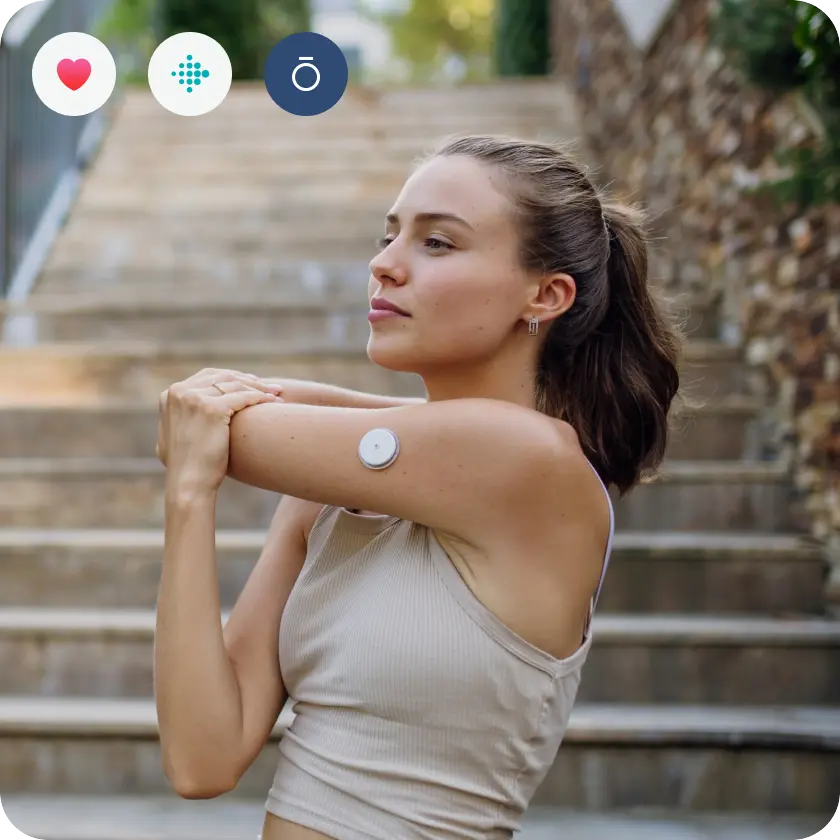
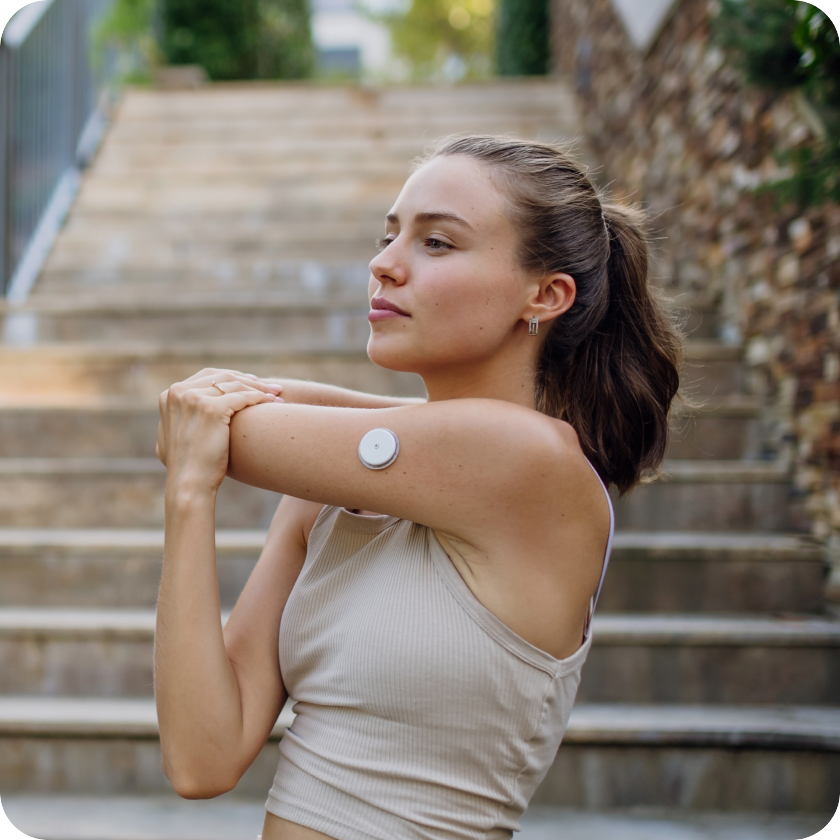
UI fixes

Changed region(s): [[0.031, 0.031, 0.2786, 0.1548], [0.3095, 0.031, 0.4333, 0.1548]]

diff --git a/index.html b/index.html
@@ -1,112 +1,1 @@
-<!doctype html>
-<html lang="en">
-<head>
-    <meta charset="UTF-8"/>
-    <title>Intend</title>
-    <meta name="description" content=""/>
-    <meta name="keywords" content=""/>
-    <meta name="viewport" content="width=device-width,initial-scale=1"/>
-    <link rel="preconnect" href="https://fonts.googleapis.com"/>
-    <link rel="preconnect" href="https://fonts.gstatic.com" crossorigin/>
-    <link href="https://fonts.googleapis.com/css2?family=Poppins:ital,wght@0,100;0,200;0,300;0,400;0,500;0,600;0,700;0,800;0,900;1,100;1,200;1,300;1,400;1,500;1,600;1,700;1,800;1,900&display=swap"
-          rel="stylesheet"/>
-    <link rel="icon" href="favicon.ico">
-    <script defer="defer" src="js/app.js"></script>
-    <link href="css/app.css" rel="stylesheet">
-</head>
-<body>
-<section class="hero">
-    <header class="hero-header">
-        <div class="hero-header__logo">
-            <svg xmlns="http://www.w3.org/2000/svg" viewBox="0 0 113 32" fill="none">
-                <path d="M101.611 31.996c-2.951 0-5.269-.935-6.955-2.806-1.686-1.897-2.529-4.386-2.529-7.469s.843-5.559 2.529-7.429c1.686-1.897 3.978-2.845 6.876-2.845 2.555 0 4.478.843 5.769 2.529V3.703h4.979V31.68h-4.979v-2.292c-.5.79-1.264 1.423-2.292 1.897s-2.16.711-3.398.711zm.711-4.307c1.607 0 2.885-.54 3.833-1.62.975-1.106 1.462-2.555 1.462-4.347s-.487-3.227-1.462-4.307c-.948-1.106-2.226-1.66-3.833-1.66-1.58 0-2.858.553-3.833 1.66-.948 1.08-1.423 2.516-1.423 4.307s.474 3.24 1.423 4.347c.975 1.08 2.253 1.62 3.833 1.62zm-32.516 3.993V11.766h4.979v3.003a7.41 7.41 0 0 1 2.608-2.411c1.106-.606 2.345-.909 3.715-.909 2.186 0 3.938.659 5.256 1.976 1.344 1.317 2.015 3.056 2.015 5.216v13.04H83.4V19.827c0-1.186-.343-2.134-1.027-2.845-.685-.738-1.607-1.106-2.766-1.106-1.528 0-2.713.619-3.556 1.857s-1.265 2.977-1.265 5.216v8.733h-4.979zm-3.767-10.63l-.079 1.976H51.181c.211 1.502.777 2.674 1.699 3.517s2.094 1.264 3.517 1.264c1.159 0 2.134-.263 2.924-.79s1.317-1.278 1.581-2.252l4.663 1.265c-.553 1.87-1.647 3.332-3.28 4.386s-3.622 1.581-5.967 1.581c-3.135 0-5.611-1.014-7.429-3.043-1.791-2.055-2.687-4.465-2.687-7.232 0-2.793.856-5.203 2.569-7.232 1.739-2.028 4.162-3.043 7.271-3.043 3.161 0 5.611.975 7.35 2.924 1.765 1.923 2.648 4.149 2.648 6.678zm-14.74-1.66h9.405c-.132-1.238-.593-2.239-1.383-3.003s-1.884-1.146-3.28-1.146c-1.238 0-2.279.356-3.122 1.067-.817.711-1.357 1.739-1.62 3.082zM44.23 31.487c-.948.343-2.015.514-3.201.514-2.108 0-3.807-.58-5.098-1.739s-1.936-2.858-1.936-5.098v-9.207-4.189V5.92h4.979v5.848h5.019v4.189h-5.019v8.733c0 .922.224 1.647.672 2.174.474.501 1.106.751 1.897.751.922 0 1.699-.158 2.331-.474l.356 4.347zm-33.835.068V11.639h4.979v3.003c.659-1.001 1.528-1.804 2.608-2.41 1.106-.606 2.345-.909 3.715-.909 2.187 0 3.939.659 5.256 1.976 1.344 1.317 2.015 3.056 2.015 5.216v13.04h-4.979V19.7c0-1.185-.343-2.134-1.027-2.845-.685-.738-1.607-1.107-2.766-1.107-1.528 0-2.713.619-3.556 1.857s-1.264 2.977-1.264 5.216v8.733h-4.979zm-5.06-23.83c-.606.58-1.357.869-2.252.869S1.45 8.304.87 7.725C.29 7.12 0 6.382 0 5.513S.869 3.34.869 3.34L3.082 0l2.252 3.379s.909 1.291.909 2.134a3.01 3.01 0 0 1-.909 2.213zM.593 31.554V11.638h4.979v19.916H.593z"/>
-                <path d="M3.082 8.595c.896 0 1.647-.29 2.252-.869a3.01 3.01 0 0 0 .909-2.213c0-.843-.909-2.134-.909-2.134L3.082 0 .869 3.339S0 4.643 0 5.513.29 7.12.869 7.725c.58.58 1.317.869 2.213.869z"/>
-            </svg>
-        </div>
-        <div class="hero-header__buttons"><a class="button button--bordered" href="mailto: info@intend.com">Contact
-            Us</a> <a class="button mobile-hidden" href="mailto: info@intend.com">Join Testing</a></div>
-    </header>
-    <div class="hero-content">
-        <div class="hero-content__wrapper"><h1 class="hero-content__title">Optimize your metabolic health with
-            Intend</h1>
-            <p class="hero-content__text">Balance your glucose, lose weight, boost your energy, and feel your best—all
-                without sacrificing muscle.</p><a class="button desktop-hidden" href="mailto: info@intend.com">Join
-                Testing</a></div>
-    </div>
-</section>
-<main class="page-content"><h1 class="page-content__title">What you’ll experience</h1>
-    <div class="features-list">
-        <div class="features-list__item">
-            <div class="features-list__item-content"><h3 class="features-list__item-title">Real-time data at your
-                fingertips</h3>
-                <p class="features-list__item-text">Track your glucose patterns effortlessly with continuous glucose
-                    monitoring (CGM) and other data from Apple Health. Intend connects seamlessly with wearables, giving
-                    you a complete, real-time view of your metabolic health directly on your phone.</p><img
-                        src="images/content/apple_health.png" alt="Apple Health" width="172"
-                        class="features-list__item-img-health"/></div>
-            <div class="features-list__item-img"><img src="images/content/girl.webp" alt="Girl with glucose monitor"/>
-            </div>
-        </div>
-        <div class="features-list__item features-list__item--reverse">
-            <div class="features-list__item-content"><h3 class="features-list__item-title">Track progress with Intend
-                app</h3>
-                <p class="features-list__item-text">Monitor your glucose trends, lifestyle habits, and progress all in
-                    one place. Get personalized insights into how your choices affect your health, with the ability for
-                    your nutritionist to access and analyze your data continuously.</p></div>
-            <div class="features-list__item-img"><img src="images/content/app.webp" alt="Application screenshot"/></div>
-        </div>
-        <div class="features-list__item">
-            <div class="features-list__item-content"><h3 class="features-list__item-title">Expert support, anytime you
-                need it</h3>
-                <p class="features-list__item-text">Connect with top-tier nutritionists trained to interpret your data
-                    and guide you toward your goals. With easy scheduling and in-app calls, you'll receive ongoing
-                    motivation and advice every step of the way.</p></div>
-            <div class="features-list__item-img"><img src="images/content/call.webp" alt="Call with doctor"/></div>
-        </div>
-        <div class="features-list__item features-list__item--reverse">
-            <div class="features-list__item-content">
-                <div class="badge">Soon! ⚡</div>
-                <h3 class="features-list__item-title">Our nutritionist rating system</h3>
-                <p class="features-list__item-text">Our experts are rated based on their ability to help you lower
-                    average glucose levels and make sustainable lifestyle changes. You’ll get access to the best of the
-                    best.</p></div>
-            <div class="features-list__item-img"><img src="images/content/rating.webp" alt="Rating example"
-                                                      class="mobile-hidden"/> <img
-                    src="images/content/rating-mobile.webp" alt="Rating example" class="desktop-hidden"/></div>
-        </div>
-    </div>
-    <div class="banner">
-        <div class="banner__wrapper">
-            <div class="banner__content">
-                <div class="badge badge--light">Soon! ⚡</div>
-                <h3 class="banner__content-title">Gamified health management</h3>
-                <p class="banner__content-text">Transform your health journey into a fun, interactive game. Take on
-                    challenges, test small but impactful habits, and discover what works for you.</p></div>
-            <img src="images/content/management-mobile.webp" alt="Management example"
-                 class="banner__img desktop-hidden"/></div>
-    </div>
-    <div class="get-results">
-        <div class="get-results__header"><h2 class="get-results__title">Get results that matter</h2>
-            <p class="get-results__text">Start optimizing your metabolic health with Intend and be part of an exclusive
-                community shaping the future of wellness.</p></div>
-        <div class="improvements-list">
-            <div class="improvements-list__item">🧘🏻 Focus easily</div>
-            <div class="improvements-list__item">💪🏻 Weight Loss</div>
-            <div class="improvements-list__item">💤 Sleep better</div>
-            <div class="improvements-list__item">🥗 Eat smarter</div>
-            <div class="improvements-list__item">⚡ Boost energy</div>
-            <div class="improvements-list__item">🧠 Improve mood</div>
-        </div>
-        <a class="button" href="mailto: info@intend.com">Join Testing</a></div>
-</main>
-<footer class="page-footer">
-    <div class="page-footer__logo">
-        <svg xmlns="http://www.w3.org/2000/svg" viewBox="0 0 113 32" fill="none">
-            <path d="M101.611 31.996c-2.951 0-5.269-.935-6.955-2.806-1.686-1.897-2.529-4.386-2.529-7.469s.843-5.559 2.529-7.429c1.686-1.897 3.978-2.845 6.876-2.845 2.555 0 4.478.843 5.769 2.529V3.703h4.979V31.68h-4.979v-2.292c-.5.79-1.264 1.423-2.292 1.897s-2.16.711-3.398.711zm.711-4.307c1.607 0 2.885-.54 3.833-1.62.975-1.106 1.462-2.555 1.462-4.347s-.487-3.227-1.462-4.307c-.948-1.106-2.226-1.66-3.833-1.66-1.58 0-2.858.553-3.833 1.66-.948 1.08-1.423 2.516-1.423 4.307s.474 3.24 1.423 4.347c.975 1.08 2.253 1.62 3.833 1.62zm-32.516 3.993V11.766h4.979v3.003a7.41 7.41 0 0 1 2.608-2.411c1.106-.606 2.345-.909 3.715-.909 2.186 0 3.938.659 5.256 1.976 1.344 1.317 2.015 3.056 2.015 5.216v13.04H83.4V19.827c0-1.186-.343-2.134-1.027-2.845-.685-.738-1.607-1.106-2.766-1.106-1.528 0-2.713.619-3.556 1.857s-1.265 2.977-1.265 5.216v8.733h-4.979zm-3.767-10.63l-.079 1.976H51.181c.211 1.502.777 2.674 1.699 3.517s2.094 1.264 3.517 1.264c1.159 0 2.134-.263 2.924-.79s1.317-1.278 1.581-2.252l4.663 1.265c-.553 1.87-1.647 3.332-3.28 4.386s-3.622 1.581-5.967 1.581c-3.135 0-5.611-1.014-7.429-3.043-1.791-2.055-2.687-4.465-2.687-7.232 0-2.793.856-5.203 2.569-7.232 1.739-2.028 4.162-3.043 7.271-3.043 3.161 0 5.611.975 7.35 2.924 1.765 1.923 2.648 4.149 2.648 6.678zm-14.74-1.66h9.405c-.132-1.238-.593-2.239-1.383-3.003s-1.884-1.146-3.28-1.146c-1.238 0-2.279.356-3.122 1.067-.817.711-1.357 1.739-1.62 3.082zM44.23 31.487c-.948.343-2.015.514-3.201.514-2.108 0-3.807-.58-5.098-1.739s-1.936-2.858-1.936-5.098v-9.207-4.189V5.92h4.979v5.848h5.019v4.189h-5.019v8.733c0 .922.224 1.647.672 2.174.474.501 1.106.751 1.897.751.922 0 1.699-.158 2.331-.474l.356 4.347zm-33.835.068V11.639h4.979v3.003c.659-1.001 1.528-1.804 2.608-2.41 1.106-.606 2.345-.909 3.715-.909 2.187 0 3.939.659 5.256 1.976 1.344 1.317 2.015 3.056 2.015 5.216v13.04h-4.979V19.7c0-1.185-.343-2.134-1.027-2.845-.685-.738-1.607-1.107-2.766-1.107-1.528 0-2.713.619-3.556 1.857s-1.264 2.977-1.264 5.216v8.733h-4.979zm-5.06-23.83c-.606.58-1.357.869-2.252.869S1.45 8.304.87 7.725C.29 7.12 0 6.382 0 5.513S.869 3.34.869 3.34L3.082 0l2.252 3.379s.909 1.291.909 2.134a3.01 3.01 0 0 1-.909 2.213zM.593 31.554V11.638h4.979v19.916H.593z"/>
-            <path d="M3.082 8.595c.896 0 1.647-.29 2.252-.869a3.01 3.01 0 0 0 .909-2.213c0-.843-.909-2.134-.909-2.134L3.082 0 .869 3.339S0 4.643 0 5.513.29 7.12.869 7.725c.58.58 1.317.869 2.213.869z"/>
-        </svg>
-    </div>
-    <p class="page-footer__copyrights"><strong>Healthy metabolism starts with steady glucose.</strong><br/>2024 Cubi
-        Tech SIA. All rights reserved.</p></footer>
-</body>
-</html>
+<!doctype html><html lang="en"><head><meta charset="UTF-8"/><title>Intend</title><meta name="description" content=""/><meta name="keywords" content=""/><meta name="viewport" content="width=device-width,initial-scale=1"/><link rel="preconnect" href="https://fonts.googleapis.com"/><link rel="preconnect" href="https://fonts.gstatic.com" crossorigin/><link href="https://fonts.googleapis.com/css2?family=Poppins:ital,wght@0,100;0,200;0,300;0,400;0,500;0,600;0,700;0,800;0,900;1,100;1,200;1,300;1,400;1,500;1,600;1,700;1,800;1,900&display=swap" rel="stylesheet"/><link rel="icon" href="favicon.ico"><script defer="defer" src="js/app.js"></script><link href="css/app.css" rel="stylesheet"></head><body><section class="hero"><header class="hero-header"><div class="hero-header__logo"><svg xmlns="http://www.w3.org/2000/svg" viewBox="0 0 113 32" fill="none"><path d="M101.611 31.996c-2.951 0-5.269-.935-6.955-2.806-1.686-1.897-2.529-4.386-2.529-7.469s.843-5.559 2.529-7.429c1.686-1.897 3.978-2.845 6.876-2.845 2.555 0 4.478.843 5.769 2.529V3.703h4.979V31.68h-4.979v-2.292c-.5.79-1.264 1.423-2.292 1.897s-2.16.711-3.398.711zm.711-4.307c1.607 0 2.885-.54 3.833-1.62.975-1.106 1.462-2.555 1.462-4.347s-.487-3.227-1.462-4.307c-.948-1.106-2.226-1.66-3.833-1.66-1.58 0-2.858.553-3.833 1.66-.948 1.08-1.423 2.516-1.423 4.307s.474 3.24 1.423 4.347c.975 1.08 2.253 1.62 3.833 1.62zm-32.516 3.993V11.766h4.979v3.003a7.41 7.41 0 0 1 2.608-2.411c1.106-.606 2.345-.909 3.715-.909 2.186 0 3.938.659 5.256 1.976 1.344 1.317 2.015 3.056 2.015 5.216v13.04H83.4V19.827c0-1.186-.343-2.134-1.027-2.845-.685-.738-1.607-1.106-2.766-1.106-1.528 0-2.713.619-3.556 1.857s-1.265 2.977-1.265 5.216v8.733h-4.979zm-3.767-10.63l-.079 1.976H51.181c.211 1.502.777 2.674 1.699 3.517s2.094 1.264 3.517 1.264c1.159 0 2.134-.263 2.924-.79s1.317-1.278 1.581-2.252l4.663 1.265c-.553 1.87-1.647 3.332-3.28 4.386s-3.622 1.581-5.967 1.581c-3.135 0-5.611-1.014-7.429-3.043-1.791-2.055-2.687-4.465-2.687-7.232 0-2.793.856-5.203 2.569-7.232 1.739-2.028 4.162-3.043 7.271-3.043 3.161 0 5.611.975 7.35 2.924 1.765 1.923 2.648 4.149 2.648 6.678zm-14.74-1.66h9.405c-.132-1.238-.593-2.239-1.383-3.003s-1.884-1.146-3.28-1.146c-1.238 0-2.279.356-3.122 1.067-.817.711-1.357 1.739-1.62 3.082zM44.23 31.487c-.948.343-2.015.514-3.201.514-2.108 0-3.807-.58-5.098-1.739s-1.936-2.858-1.936-5.098v-9.207-4.189V5.92h4.979v5.848h5.019v4.189h-5.019v8.733c0 .922.224 1.647.672 2.174.474.501 1.106.751 1.897.751.922 0 1.699-.158 2.331-.474l.356 4.347zm-33.835.068V11.639h4.979v3.003c.659-1.001 1.528-1.804 2.608-2.41 1.106-.606 2.345-.909 3.715-.909 2.187 0 3.939.659 5.256 1.976 1.344 1.317 2.015 3.056 2.015 5.216v13.04h-4.979V19.7c0-1.185-.343-2.134-1.027-2.845-.685-.738-1.607-1.107-2.766-1.107-1.528 0-2.713.619-3.556 1.857s-1.264 2.977-1.264 5.216v8.733h-4.979zm-5.06-23.83c-.606.58-1.357.869-2.252.869S1.45 8.304.87 7.725C.29 7.12 0 6.382 0 5.513S.869 3.34.869 3.34L3.082 0l2.252 3.379s.909 1.291.909 2.134a3.01 3.01 0 0 1-.909 2.213zM.593 31.554V11.638h4.979v19.916H.593z"/><path d="M3.082 8.595c.896 0 1.647-.29 2.252-.869a3.01 3.01 0 0 0 .909-2.213c0-.843-.909-2.134-.909-2.134L3.082 0 .869 3.339S0 4.643 0 5.513.29 7.12.869 7.725c.58.58 1.317.869 2.213.869z"/></svg></div><div class="hero-header__buttons"><a class="button button--bordered" href="mailto: info@intend.com">Contact Us</a> <a class="button mobile-hidden" href="https://5hmolusvwz7.typeform.com/to/MirVFFe3" target="_blank" rel="noopener noreferrer">Join Testing</a></div></header><div class="hero-content"><div class="hero-content__wrapper"><h1 class="hero-content__title">Optimize your metabolic health with Intend</h1><p class="hero-content__text">Balance your glucose, lose weight, boost your energy, and feel your best—all without sacrificing muscle.</p><a class="button desktop-hidden" href="https://5hmolusvwz7.typeform.com/to/MirVFFe3" target="_blank" rel="noopener noreferrer">Join Testing</a></div></div></section><main class="page-content"><h1 class="page-content__title">What you’ll experience</h1><div class="features-list"><div class="features-list__item"><div class="features-list__item-content"><h3 class="features-list__item-title">Real-time data at your fingertips</h3><p class="features-list__item-text">Track your glucose patterns effortlessly with continuous glucose monitoring (CGM) and other data from Apple Health. Intend connects seamlessly with wearables, giving you a complete, real-time view of your metabolic health directly on your phone.</p><img src="images/content/apple_health.svg" alt="Apple Health" width="172" class="features-list__item-img-health"/></div><div class="features-list__item-img"><img src="images/content/girl.webp" alt="Girl with glucose monitor"/></div></div><div class="features-list__item features-list__item--reverse"><div class="features-list__item-content"><h3 class="features-list__item-title">Track progress with Intend app</h3><p class="features-list__item-text">Monitor your glucose trends, lifestyle habits, and progress all in one place. Get personalized insights into how your choices affect your health, with the ability for your nutritionist to access and analyze your data continuously.</p></div><div class="features-list__item-img"><img src="images/content/app.webp" alt="Application screenshot"/></div></div><div class="features-list__item"><div class="features-list__item-content"><h3 class="features-list__item-title">Expert support, anytime you need it</h3><p class="features-list__item-text">Connect with top-tier nutritionists trained to interpret your data and guide you toward your goals. With easy scheduling and in-app calls, you'll receive ongoing motivation and advice every step of the way.</p></div><div class="features-list__item-img"><img src="images/content/call.webp" alt="Call with doctor"/></div></div><div class="features-list__item features-list__item--reverse"><div class="features-list__item-content"><div class="badge">Soon! ⚡</div><h3 class="features-list__item-title">Our nutritionist rating system</h3><p class="features-list__item-text">Our experts are rated based on their ability to help you lower average glucose levels and make sustainable lifestyle changes. You’ll get access to the best of the best.</p></div><div class="features-list__item-img"><img src="images/content/rating.png" alt="Rating example" class="mobile-hidden"/> <img src="images/content/rating-mobile.png" alt="Rating example" class="desktop-hidden"/></div></div></div><div class="banner"><div class="banner__wrapper"><div class="banner__content"><div class="badge badge--light">Soon! ⚡</div><h3 class="banner__content-title">Gamified health management</h3><p class="banner__content-text">Transform your health journey into a fun, interactive game. Take on challenges, test small but impactful habits, and discover what works for you.</p></div><img src="images/content/management-mobile.webp" alt="Management example" class="banner__img desktop-hidden"/></div></div><div class="get-results"><div class="get-results__header"><h2 class="get-results__title">Get results that matter</h2><p class="get-results__text">Start optimizing your metabolic health with Intend and be part of an exclusive community shaping the future of wellness.</p></div><div class="improvements-lists-wrapper"><div class="improvements-list"><div class="improvements-list__item"><span class="improvements-list__item-content">🧘🏻 Focus easily</span></div><div class="improvements-list__item"><span class="improvements-list__item-content">💪🏻 Weight Loss</span></div><div class="improvements-list__item"><span class="improvements-list__item-content">💤 Sleep better</span></div><div class="improvements-list__item"><span class="improvements-list__item-content">🥗 Eat smarter</span></div><div class="improvements-list__item"><span class="improvements-list__item-content">⚡ Boost energy</span></div><div class="improvements-list__item"><span class="improvements-list__item-content">🧠 Improve mood</span></div><div class="improvements-list__item" aria-hidden="true"><span class="improvements-list__item-content">🧘🏻 Focus easily</span></div><div class="improvements-list__item" aria-hidden="true"><span class="improvements-list__item-content">💪🏻 Weight Loss</span></div><div class="improvements-list__item" aria-hidden="true"><span class="improvements-list__item-content">💤 Sleep better</span></div><div class="improvements-list__item" aria-hidden="true"><span class="improvements-list__item-content">🥗 Eat smarter</span></div><div class="improvements-list__item" aria-hidden="true"><span class="improvements-list__item-content">⚡ Boost energy</span></div><div class="improvements-list__item" aria-hidden="true"><span class="improvements-list__item-content">🧠 Improve mood</span></div></div><div class="improvements-list improvements-list--reversed" aria-hidden="true"><div class="improvements-list__item"><span class="improvements-list__item-content">🧘🏻 Focus easily</span></div><div class="improvements-list__item"><span class="improvements-list__item-content">💪🏻 Weight Loss</span></div><div class="improvements-list__item"><span class="improvements-list__item-content">💤 Sleep better</span></div><div class="improvements-list__item"><span class="improvements-list__item-content">🥗 Eat smarter</span></div><div class="improvements-list__item"><span class="improvements-list__item-content">⚡ Boost energy</span></div><div class="improvements-list__item"><span class="improvements-list__item-content">🧠 Improve mood</span></div><div class="improvements-list__item"><span class="improvements-list__item-content">🧘🏻 Focus easily</span></div><div class="improvements-list__item"><span class="improvements-list__item-content">💪🏻 Weight Loss</span></div><div class="improvements-list__item"><span class="improvements-list__item-content">💤 Sleep better</span></div><div class="improvements-list__item"><span class="improvements-list__item-content">🥗 Eat smarter</span></div><div class="improvements-list__item"><span class="improvements-list__item-content">⚡ Boost energy</span></div><div class="improvements-list__item"><span class="improvements-list__item-content">🧠 Improve mood</span></div></div></div><a class="button" href="https://5hmolusvwz7.typeform.com/to/MirVFFe3">Join Testing</a></div></main><footer class="page-footer"><div class="page-footer__logo"><svg xmlns="http://www.w3.org/2000/svg" viewBox="0 0 113 32" fill="none"><path d="M101.611 31.996c-2.951 0-5.269-.935-6.955-2.806-1.686-1.897-2.529-4.386-2.529-7.469s.843-5.559 2.529-7.429c1.686-1.897 3.978-2.845 6.876-2.845 2.555 0 4.478.843 5.769 2.529V3.703h4.979V31.68h-4.979v-2.292c-.5.79-1.264 1.423-2.292 1.897s-2.16.711-3.398.711zm.711-4.307c1.607 0 2.885-.54 3.833-1.62.975-1.106 1.462-2.555 1.462-4.347s-.487-3.227-1.462-4.307c-.948-1.106-2.226-1.66-3.833-1.66-1.58 0-2.858.553-3.833 1.66-.948 1.08-1.423 2.516-1.423 4.307s.474 3.24 1.423 4.347c.975 1.08 2.253 1.62 3.833 1.62zm-32.516 3.993V11.766h4.979v3.003a7.41 7.41 0 0 1 2.608-2.411c1.106-.606 2.345-.909 3.715-.909 2.186 0 3.938.659 5.256 1.976 1.344 1.317 2.015 3.056 2.015 5.216v13.04H83.4V19.827c0-1.186-.343-2.134-1.027-2.845-.685-.738-1.607-1.106-2.766-1.106-1.528 0-2.713.619-3.556 1.857s-1.265 2.977-1.265 5.216v8.733h-4.979zm-3.767-10.63l-.079 1.976H51.181c.211 1.502.777 2.674 1.699 3.517s2.094 1.264 3.517 1.264c1.159 0 2.134-.263 2.924-.79s1.317-1.278 1.581-2.252l4.663 1.265c-.553 1.87-1.647 3.332-3.28 4.386s-3.622 1.581-5.967 1.581c-3.135 0-5.611-1.014-7.429-3.043-1.791-2.055-2.687-4.465-2.687-7.232 0-2.793.856-5.203 2.569-7.232 1.739-2.028 4.162-3.043 7.271-3.043 3.161 0 5.611.975 7.35 2.924 1.765 1.923 2.648 4.149 2.648 6.678zm-14.74-1.66h9.405c-.132-1.238-.593-2.239-1.383-3.003s-1.884-1.146-3.28-1.146c-1.238 0-2.279.356-3.122 1.067-.817.711-1.357 1.739-1.62 3.082zM44.23 31.487c-.948.343-2.015.514-3.201.514-2.108 0-3.807-.58-5.098-1.739s-1.936-2.858-1.936-5.098v-9.207-4.189V5.92h4.979v5.848h5.019v4.189h-5.019v8.733c0 .922.224 1.647.672 2.174.474.501 1.106.751 1.897.751.922 0 1.699-.158 2.331-.474l.356 4.347zm-33.835.068V11.639h4.979v3.003c.659-1.001 1.528-1.804 2.608-2.41 1.106-.606 2.345-.909 3.715-.909 2.187 0 3.939.659 5.256 1.976 1.344 1.317 2.015 3.056 2.015 5.216v13.04h-4.979V19.7c0-1.185-.343-2.134-1.027-2.845-.685-.738-1.607-1.107-2.766-1.107-1.528 0-2.713.619-3.556 1.857s-1.264 2.977-1.264 5.216v8.733h-4.979zm-5.06-23.83c-.606.58-1.357.869-2.252.869S1.45 8.304.87 7.725C.29 7.12 0 6.382 0 5.513S.869 3.34.869 3.34L3.082 0l2.252 3.379s.909 1.291.909 2.134a3.01 3.01 0 0 1-.909 2.213zM.593 31.554V11.638h4.979v19.916H.593z"/><path d="M3.082 8.595c.896 0 1.647-.29 2.252-.869a3.01 3.01 0 0 0 .909-2.213c0-.843-.909-2.134-.909-2.134L3.082 0 .869 3.339S0 4.643 0 5.513.29 7.12.869 7.725c.58.58 1.317.869 2.213.869z"/></svg></div><p class="page-footer__copyrights"><strong>Healthy metabolism starts with steady glucose.</strong><br/>2024 Cubi Tech SIA. All rights reserved.</p></footer></body></html>

diff --git a/css/app.css b/css/app.css
@@ -1,1 +1,1 @@
-@media print{@page{margin:1cm}body{background:#fff;color:#000}a,blockquote,pre,table{page-break-inside:avoid}dl,ol,ul{page-break-before:avoid}}html{line-height:1.15;-webkit-text-size-adjust:100%}body{margin:0}h1{font-size:2em;margin:.67em 0}hr{box-sizing:content-box;height:0;overflow:visible}main{display:block}pre{font-family:monospace,monospace;font-size:1em}a{background-color:transparent}abbr[title]{border-bottom:none;text-decoration:underline;-webkit-text-decoration:underline dotted;text-decoration:underline dotted}b,strong{font-weight:bolder}code,kbd,samp{font-family:monospace,monospace;font-size:1em}small{font-size:80%}sub,sup{font-size:75%;line-height:0;position:relative;vertical-align:baseline}sub{bottom:-.25em}sup{top:-.5em}img{border-style:none}button,input,optgroup,select,textarea{font-family:inherit;font-size:100%;line-height:1.15;margin:0}button{overflow:visible}button,select{text-transform:none}[type=button],[type=reset],[type=submit],button{-webkit-appearance:button}[type=button]::-moz-focus-inner,[type=reset]::-moz-focus-inner,[type=submit]::-moz-focus-inner,button::-moz-focus-inner{border-style:none;padding:0}[type=button]:-moz-focusring,[type=reset]:-moz-focusring,[type=submit]:-moz-focusring,button:-moz-focusring{outline:1px dotted ButtonText}input{overflow:visible}[type=checkbox],[type=radio]{box-sizing:border-box;padding:0}[type=number]::-webkit-inner-spin-button,[type=number]::-webkit-outer-spin-button{height:auto}[type=search]{-webkit-appearance:textfield;outline-offset:-2px}[type=search]::-webkit-search-decoration{-webkit-appearance:none}::-webkit-file-upload-button{-webkit-appearance:button;font:inherit}fieldset{padding:.35em .75em .625em}legend{box-sizing:border-box;color:inherit;display:table;max-width:100%;padding:0;white-space:normal}progress{vertical-align:baseline}textarea{overflow:auto}details{display:block}summary{display:list-item}[hidden],template{display:none}.badge{align-items:center;background-color:#290852;border-radius:4px;color:#fff;display:inline-flex;font-size:12px;font-weight:600;height:20px;line-height:16px;padding:0 4px;width:-moz-fit-content;width:fit-content}.badge--light{background-color:#fff;color:#2d1f42}.button{align-items:center;background-color:#290852;border:none;border-radius:64px;color:#fff;display:flex;font-size:12px;font-weight:600;height:40px;justify-content:center;line-height:16px;padding:0 16px;position:relative;text-decoration:none;white-space:nowrap;width:-moz-fit-content;width:fit-content}.button:after{background-color:hsla(0,0%,100%,.2);bottom:0;content:"";display:block;left:0;opacity:0;pointer-events:none;position:absolute;right:0;top:0;transition:opacity .15s cubic-bezier(.25,.46,.45,.94);-webkit-user-select:none;-moz-user-select:none;user-select:none}@media(hover:hover)and (pointer:fine){.button:not(.button--no-hover):hover{cursor:pointer}.button:not(.button--no-hover):hover:after{opacity:1}}.button--bordered{background-color:transparent;box-shadow:0 0 1px 1px #290852;color:#2d1f42}.button--light{background-color:#fff;color:#2d1f42}@media(min-width:700px){.button{font-size:14px;font-weight:500;height:44px;line-height:20px}}body,html{-moz-osx-font-smoothing:grayscale;-webkit-font-smoothing:antialiased;-webkit-tap-highlight-color:rgba(0,0,0,0);-webkit-touch-callout:none;background-color:#fbf9f6;color:#2d1f42;font-family:Poppins,sans-serif;font-weight:400;height:100%;line-height:16px;margin:0;position:relative;touch-action:pan-x pan-y;width:100%}@media(max-width:699px){.mobile-visible{display:block}.mobile-hidden{display:none}}@media(min-width:700px){.desktop-visible{display:block}.desktop-hidden{display:none}}.hero{background:url(../images/design/bg-mobile2.907b38.webp) 50% 0 no-repeat,url(../images/design/bg-mobile.ea2f18.webp) 0 0 no-repeat;background-color:#eee;background-size:auto 679px;border-radius:0 0 24px 24px;flex-direction:column;margin-bottom:42px;overflow:hidden;padding:24px 16px}.hero,.hero-header{align-items:center;display:flex;justify-content:space-between}.hero-header{margin-bottom:400px;max-width:1152px;width:100%}.hero-header__logo svg{fill:#fff;height:24px}@media(min-width:700px){.hero-header__logo svg{height:32px}}.hero-header__buttons{display:flex;gap:16px}.hero-content__wrapper{display:flex;flex-direction:column;gap:8px}.hero-content__title{color:#2d1f42;font-size:24px;font-weight:600;line-height:32px;margin:0}.hero-content__text{color:#2d1f42;font-size:14px;font-weight:400;line-height:20px;margin:0}@media(max-width:360px){.hero{background:url(../images/design/bg-mobile2.907b38.webp) -170px 0 no-repeat,url(../images/design/bg-mobile.ea2f18.webp) 0 0 no-repeat;background-color:#eee;background-size:auto 679px}}@media(min-width:700px){.hero{background-image:url(../images/design/bg.fd5710.webp);background-position:50% 0;background-size:cover;margin-bottom:84px;min-height:380px}.hero-header{margin-bottom:0}.hero-content{max-width:1152px;width:100%}.hero-content__wrapper{gap:16px;max-width:50%}.hero-content__title{color:#fff;font-size:42px;font-weight:600;line-height:50px}.hero-content__text{color:#fff;font-size:16px;font-weight:400;line-height:20px}}@media(min-width:900px){.hero{height:85vw;margin-bottom:128px;max-height:600px}}@media(min-width:1280px){.hero{height:auto;max-height:none;min-height:650px}}@media(min-width:1440px){.hero{height:50vw}}.page-content{overflow:hidden;padding:0 16px}.page-content__title{color:#2d1f42;font-size:24px;font-weight:600;line-height:32px;margin-bottom:24px;text-align:center}@media(min-width:900px){.page-content__title{font-size:42px;font-weight:600;line-height:50px;margin-bottom:68px}}.features-list{display:flex;flex-direction:column;gap:64px;margin:0 auto 94px;max-width:420px}.features-list__item{display:flex;flex-direction:column;gap:24px}.features-list__item-content{display:flex;flex-direction:column;gap:8px;justify-content:center}.features-list__item-title{font-size:18px;font-weight:600;line-height:26px;margin:0}.features-list__item-text{font-size:14px;font-weight:400;line-height:20px;margin:0}.features-list__item-img{max-width:420px}.features-list__item-img img{height:100%;-o-object-fit:contain;object-fit:contain;pointer-events:none;-webkit-user-select:none;-moz-user-select:none;user-select:none;width:100%}@media(max-width:699px){.features-list__item-content{order:2}.features-list__item-img{order:1}.features-list__item-img-health{margin-top:16px}}@media(min-width:700px){.features-list{gap:84px;max-width:864px}.features-list__item{flex-direction:row;gap:70px}.features-list__item--reverse{flex-direction:row-reverse;gap:72px}.features-list__item-content{gap:16px;max-width:368px}.features-list__item-title{font-size:24px;font-weight:600;line-height:32px;margin:0}.features-list__item-img{min-width:calc(50% - 35px)}}@media(min-width:900px){.features-list{gap:128px}}.banner{background-color:#290852;border-radius:24px;display:flex;margin:0 auto 120px;max-width:1120px;overflow:hidden;padding:24px 16px;position:relative}.banner__wrapper{margin:0 auto;max-width:864px;width:100%}.banner__img{width:calc(100% + 16px)}.banner__content{color:#fff;display:flex;flex-direction:column;gap:16px}.banner__content-title{font-size:18px;font-weight:600;line-height:26px;margin:0}.banner__content-text{font-size:14px;font-weight:400;line-height:20px;margin:0}@media(min-width:700px){.banner{background:#290852 url(../images/design/management.0031d8.webp) 16px 100% no-repeat;background-size:contain;padding:24px 16px 220px}.banner__content-title{font-size:24px;font-weight:600;line-height:32px}}@media(min-width:900px){.banner{background-position:100% 50%;background-size:auto 120px;padding-bottom:24px}.banner__content{max-width:368px}}@media(min-width:1024px){.banner{background-size:auto 140px}}@media(min-width:1280px){.banner{background-size:auto 148px}}.get-results{align-items:center;background:linear-gradient(260.08deg,rgba(115,202,193,.2) 1.41%,rgba(201,183,232,.2) 96.2%);border-radius:24px;gap:24px;margin:0 auto 62px;max-width:1152px;overflow:hidden;padding:42px 0;text-align:center;width:100%}.get-results,.get-results__header{display:flex;flex-direction:column}.get-results__header{gap:8px;padding:0 16px}.get-results__title{color:#290852;font-size:24px;font-weight:600;line-height:32px;margin:0}.get-results__text{color:#2d1f42;font-size:14px;font-weight:400;line-height:20px;margin:0}@media(min-width:900px){.get-results{gap:32px;padding:64px 0}.get-results__header{gap:16px}.get-results__title{font-size:42px;font-weight:600;line-height:50px}}.improvements-list{display:flex;flex-wrap:wrap;gap:8px;justify-content:center;overflow:hidden}.improvements-list__item{align-items:center;background-color:#fff;border-radius:64px;color:#2d1f42;display:flex;font-size:14px;font-weight:500;height:40px;justify-content:center;line-height:20px;padding-left:24px;padding-right:24px;position:relative;white-space:nowrap;width:-moz-fit-content;width:fit-content}@media(max-width:699px){.improvements-list{width:482px}}.page-footer{align-items:center;display:flex;flex-direction:column;justify-content:space-between;margin:0 auto;max-width:1152px;padding-bottom:32px}.page-footer__logo svg{fill:#2d1f42;height:24px}@media(min-width:700px){.page-footer__logo svg{height:32px}}.page-footer__copyrights{color:#2d1f42;font-size:12px;font-weight:400;line-height:18px;text-align:center}.page-footer__copyrights strong{font-weight:500}@media(min-width:700px){.page-footer{flex-direction:row;padding:0 16px 28px}.page-footer__copyrights{font-size:14px;font-weight:400;line-height:20px;text-align:right}}
+@media print{@page{margin:1cm}body{background:#fff;color:#000}a,blockquote,pre,table{page-break-inside:avoid}dl,ol,ul{page-break-before:avoid}}html{line-height:1.15;-webkit-text-size-adjust:100%}body{margin:0}h1{font-size:2em;margin:.67em 0}hr{box-sizing:content-box;height:0;overflow:visible}main{display:block}pre{font-family:monospace,monospace;font-size:1em}a{background-color:transparent}abbr[title]{border-bottom:none;text-decoration:underline;-webkit-text-decoration:underline dotted;text-decoration:underline dotted}b,strong{font-weight:bolder}code,kbd,samp{font-family:monospace,monospace;font-size:1em}small{font-size:80%}sub,sup{font-size:75%;line-height:0;position:relative;vertical-align:baseline}sub{bottom:-.25em}sup{top:-.5em}img{border-style:none}button,input,optgroup,select,textarea{font-family:inherit;font-size:100%;line-height:1.15;margin:0}button{overflow:visible}button,select{text-transform:none}[type=button],[type=reset],[type=submit],button{-webkit-appearance:button}[type=button]::-moz-focus-inner,[type=reset]::-moz-focus-inner,[type=submit]::-moz-focus-inner,button::-moz-focus-inner{border-style:none;padding:0}[type=button]:-moz-focusring,[type=reset]:-moz-focusring,[type=submit]:-moz-focusring,button:-moz-focusring{outline:1px dotted ButtonText}input{overflow:visible}[type=checkbox],[type=radio]{box-sizing:border-box;padding:0}[type=number]::-webkit-inner-spin-button,[type=number]::-webkit-outer-spin-button{height:auto}[type=search]{-webkit-appearance:textfield;outline-offset:-2px}[type=search]::-webkit-search-decoration{-webkit-appearance:none}::-webkit-file-upload-button{-webkit-appearance:button;font:inherit}fieldset{padding:.35em .75em .625em}legend{box-sizing:border-box;color:inherit;display:table;max-width:100%;padding:0;white-space:normal}progress{vertical-align:baseline}textarea{overflow:auto}details{display:block}summary{display:list-item}[hidden],template{display:none}.badge{align-items:center;background-color:#290852;border-radius:4px;color:#fff;display:inline-flex;font-size:12px;font-weight:600;height:20px;line-height:16px;padding:0 4px;width:-moz-fit-content;width:fit-content}.badge--light{background-color:#fff;color:#2d1f42}.button{align-items:center;background-color:#290852;border:none;border-radius:64px;color:#fff;display:flex;font-size:14px;font-weight:500;height:48px;justify-content:center;line-height:24px;overflow:hidden;padding:0 24px;position:relative;text-decoration:none;white-space:nowrap;width:-moz-fit-content;width:fit-content}.button:after{background-color:hsla(0,0%,100%,.2);bottom:0;content:"";display:block;left:0;opacity:0;pointer-events:none;position:absolute;right:0;top:0;transition:opacity .15s cubic-bezier(.25,.46,.45,.94);-webkit-user-select:none;-moz-user-select:none;user-select:none}@media(hover:hover)and (pointer:fine){.button:not(.button--no-hover):hover{cursor:pointer}.button:not(.button--no-hover):hover:after{opacity:1}}.button--bordered{background-color:transparent;box-shadow:0 0 0 1px #290852;color:#2d1f42}.button--light{background-color:#fff;color:#2d1f42}body,html{-moz-osx-font-smoothing:grayscale;-webkit-font-smoothing:antialiased;-webkit-tap-highlight-color:rgba(0,0,0,0);-webkit-touch-callout:none;background-color:#fbf9f6;color:#2d1f42;font-family:Poppins,sans-serif;font-weight:400;height:100%;line-height:16px;margin:0;position:relative;touch-action:pan-x pan-y;width:100%}@media(max-width:699px){.mobile-visible{display:block}.mobile-hidden{display:none}}@media(min-width:700px){.desktop-visible{display:block}.desktop-hidden{display:none}}.hero{background:url(../images/design/bg-mobile2.907b38.webp) 50% 0 no-repeat,url(../images/design/bg-mobile.ea2f18.webp) 0 0 no-repeat;background-color:#eee;background-size:auto 662px;border-radius:0 0 24px 24px;box-sizing:border-box;flex-direction:column;margin-bottom:42px;overflow:hidden;padding:24px 16px 32px}.hero,.hero-header{align-items:center;display:flex;justify-content:space-between}.hero-header{margin-bottom:412px;max-width:1152px;width:100%}.hero-header__logo svg{fill:#fff;height:24px}@media(min-width:700px){.hero-header__logo svg{height:32px}}.hero-header__buttons{display:flex;gap:16px}@media(max-width:699px){.hero-header__buttons .button{height:42px;padding:0 16px}}.hero-content__wrapper{display:flex;flex-direction:column;gap:12px}.hero-content__title{color:#2d1f42;font-size:24px;font-weight:600;line-height:32px;margin:0}.hero-content__text{color:#2d1f42;font-size:14px;font-weight:400;line-height:24px;margin:0}.hero-content .button{margin-top:12px}@media(max-width:360px){.hero{background:url(../images/design/bg-mobile2.907b38.webp) -170px 0 no-repeat,url(../images/design/bg-mobile.ea2f18.webp) 0 0 no-repeat;background-color:#eee;background-size:auto 679px}}@media(min-width:700px){.hero{background-image:url(../images/design/bg.fd5710.webp);background-position:50% 100%;background-size:cover;margin-bottom:84px;min-height:440px}.hero-header{margin-bottom:0}.hero-content{max-width:1152px;width:100%}.hero-content__wrapper{gap:16px;max-width:50%}.hero-content__title{color:#fff;font-size:42px;font-weight:600;line-height:50px}.hero-content__text{color:#fff;font-size:16px;font-weight:400;line-height:20px}}@media(min-width:900px){.hero{height:85vw;margin-bottom:128px;max-height:600px;padding-bottom:56px}}@media(min-width:1280px){.hero{height:auto;max-height:none;min-height:650px;padding-bottom:62px}}@media(min-width:1440px){.hero{height:50vw;padding-bottom:84px}}.page-content{overflow:hidden;padding:0 16px}.page-content__title{color:#2d1f42;font-size:24px;font-weight:600;line-height:32px;margin:0 0 24px;text-align:center}@media(min-width:900px){.page-content__title{font-size:42px;font-weight:600;line-height:50px;margin-bottom:68px}}.features-list{display:flex;flex-direction:column;gap:64px;margin:0 auto 94px;max-width:420px}.features-list__item{display:flex;flex-direction:column;gap:24px}.features-list__item-content{display:flex;flex-direction:column;gap:8px;justify-content:center}.features-list__item-title{font-size:18px;font-weight:600;line-height:26px;margin:0}.features-list__item-text{font-size:14px;font-weight:400;line-height:24px;margin:0}.features-list__item-img{max-width:420px}.features-list__item-img img{height:100%;-o-object-fit:contain;object-fit:contain;pointer-events:none;-webkit-user-select:none;-moz-user-select:none;user-select:none;width:100%}@media(max-width:699px){.features-list__item-content{order:2}.features-list__item-img{order:1}.features-list__item-img-health{margin-top:16px}}@media(min-width:700px){.features-list{gap:84px;max-width:864px}.features-list__item{flex-direction:row;gap:70px}.features-list__item--reverse{flex-direction:row-reverse;gap:72px}.features-list__item-content{gap:16px;max-width:368px}.features-list__item-title{font-size:24px;font-weight:600;line-height:32px;margin:0}.features-list__item-img{min-width:calc(50% - 35px)}}@media(min-width:900px){.features-list{gap:128px}}.banner{background-color:#290852;border-radius:24px;display:flex;margin:0 auto 120px;max-width:1120px;overflow:hidden;padding:24px 16px;position:relative}.banner__wrapper{margin:0 auto;max-width:864px;width:100%}.banner__img{width:calc(100% + 16px)}.banner__content{color:#fff;display:flex;flex-direction:column;gap:16px}.banner__content-title{font-size:18px;font-weight:600;line-height:26px;margin:0}.banner__content-text{font-size:14px;font-weight:400;line-height:24px;margin:0}@media(min-width:700px){.banner{background:#290852 url(../images/design/management.0031d8.webp) 16px 100% no-repeat;background-size:contain;padding:24px 16px 220px}.banner__content-title{font-size:24px;font-weight:600;line-height:32px}}@media(min-width:900px){.banner{background-position:100% 50%;background-size:auto 120px;padding-bottom:24px}.banner__content{max-width:368px}}@media(min-width:1024px){.banner{background-size:auto 140px}}@media(min-width:1280px){.banner{background-size:auto 148px}}.get-results{align-items:center;background:linear-gradient(260.08deg,rgba(115,202,193,.2) 1.41%,rgba(201,183,232,.2) 96.2%);border-radius:24px;gap:24px;margin:0 auto 62px;max-width:1152px;overflow:hidden;padding:42px 0;text-align:center;width:100%}.get-results,.get-results__header{display:flex;flex-direction:column}.get-results__header{gap:8px;padding:0 16px}.get-results__title{color:#290852;font-size:24px;font-weight:600;line-height:32px;margin:0}.get-results__text{color:#2d1f42;font-size:14px;font-weight:400;line-height:24px;margin:0}@media(min-width:900px){.get-results{gap:32px;padding:64px 0}.get-results__header{gap:16px}.get-results__title{font-size:42px;font-weight:600;line-height:50px}}.improvements-lists-wrapper{display:flex;flex-direction:column;gap:8px}:root{--no-of-slides:6;--slides-in-view:3;--slide-width:174px;--iteration-time:20s}@keyframes scroll{0%{transform:translateX(0)}to{transform:translateX(calc(var(--slide-width)*var(--no-of-slides)*-1))}}@keyframes reverse-scroll{0%{transform:translateX(calc(var(--slide-width)*var(--no-of-slides)*-1))}to{transform:translateX(0)}}.improvements-list{display:flex;gap:8px;overflow:hidden;position:relative}.improvements-list__item-content{align-items:center;background-color:#fff;border-radius:64px;color:#2d1f42;display:flex;font-size:14px;font-weight:500;height:40px;justify-content:center;line-height:24px;padding-left:24px;padding-right:24px;position:relative;white-space:nowrap}@media(max-width:550px){.improvements-list{gap:initial;width:calc(var(--slides-in-view)*var(--slide-width))}.improvements-list__item{animation:scroll var(--iteration-time) linear infinite;flex:0 0 auto;width:var(--slide-width)}.improvements-list__item-content{margin:0 4px}.improvements-list--reversed .improvements-list__item{animation:reverse-scroll var(--iteration-time) linear infinite}}@media(min-width:551px){.improvements-list{flex-wrap:wrap;justify-content:center}.improvements-list [aria-hidden].improvements-list__item,.improvements-list--reversed{display:none}}.page-footer{align-items:center;display:flex;flex-direction:column;justify-content:space-between;margin:0 auto;max-width:1152px;padding-bottom:32px}.page-footer__logo svg{fill:#2d1f42;height:24px}@media(min-width:700px){.page-footer__logo svg{height:32px}}.page-footer__copyrights{color:#2d1f42;font-size:12px;font-weight:400;line-height:18px;text-align:center}.page-footer__copyrights strong{font-weight:500}@media(min-width:700px){.page-footer{flex-direction:row;padding:0 16px 28px}.page-footer__copyrights{font-size:14px;font-weight:400;line-height:24px;text-align:right}}
